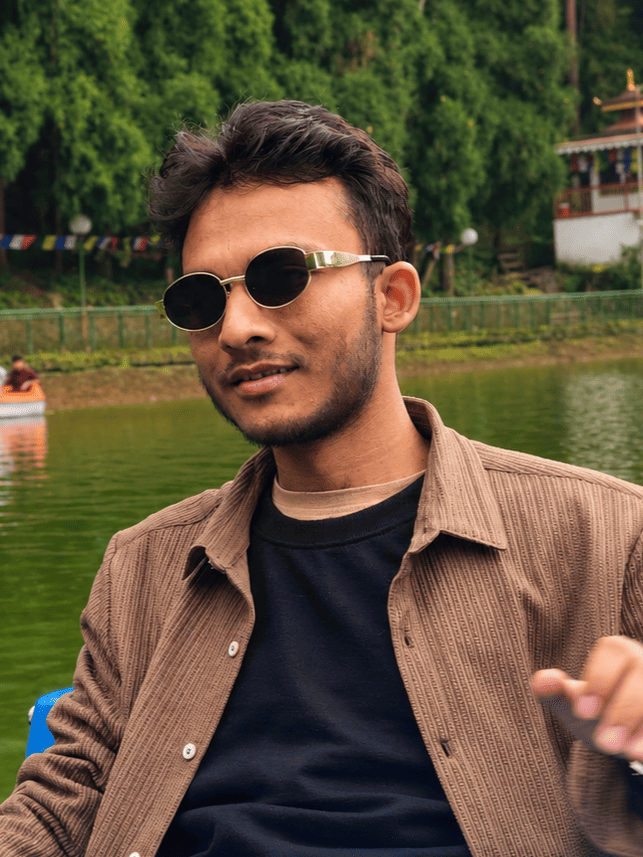
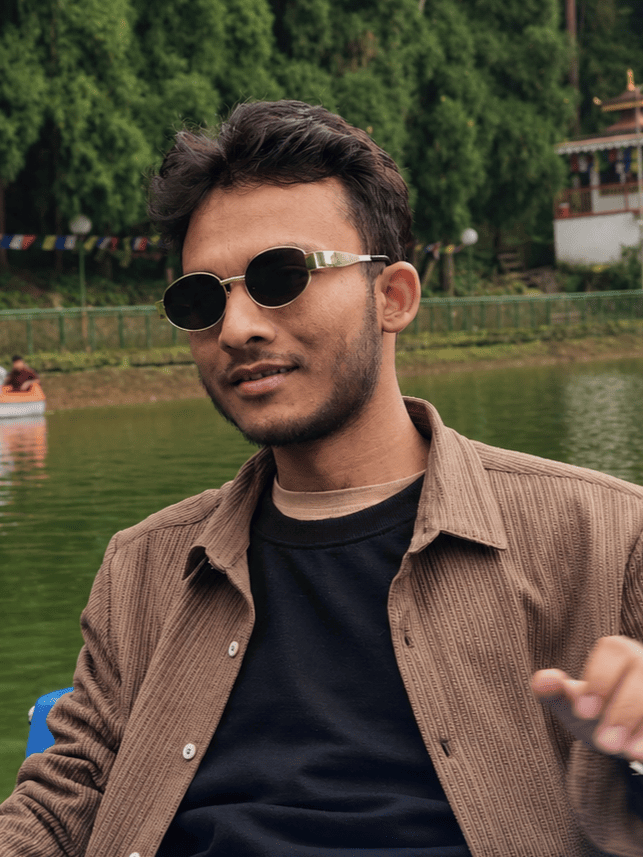
fix: nav  and playlist mini disc also change for consistency, edited some cast photo

diff --git a/src/components/layout/Navbar.jsx b/src/components/layout/Navbar.jsx
@@ -51,8 +51,23 @@ const MarqueeText = ({ text, className = '' }) => {
 
 /* ── Tiny vinyl SVG (matches home page aesthetics) ──────────────────── */
 /* Pure CSS animation-play-state — no Framer Motion rotation needed     */
-const MiniVinyl = ({ isPlaying, isResetting, size = 26 }) => {
+const LABEL_COLORS = [
+  { light: '#c8934a', dark: '#7c481f' }, // Amber
+  { light: '#c85a5a', dark: '#7a2f2f' }, // muted red
+  { light: '#5a86c8', dark: '#2f4f7a' }, // muted blue
+  { light: '#5fc27a', dark: '#357048' }, // muted green
+  { light: '#c8b15a', dark: '#7a682f' }, // muted yellow
+  { light: '#a05ac8', dark: '#62357a' }, // muted purple
+];
+
+const MiniVinyl = ({ isPlaying, isResetting, activeTrack, size = 26 }) => {
   const playState = (isPlaying && !isResetting) ? 'running' : 'paused';
+  
+  const isDefaultState = activeTrack === null || activeTrack === undefined;
+  const miniDiscColors = isDefaultState
+    ? { light: '#fdf4e3', dark: '#d5bca3' }
+    : LABEL_COLORS[activeTrack % LABEL_COLORS.length];
+
   return (
     <div
       key={isResetting ? 'mini-reset' : 'mini-play'}
@@ -77,8 +92,8 @@ const MiniVinyl = ({ isPlaying, isResetting, size = 26 }) => {
             <stop offset="100%" stopColor="#100d08" />
           </radialGradient>
           <radialGradient id="mLabelGrad" cx="35%" cy="35%" r="70%">
-            <stop offset="0%" stopColor="#c8934a" />
-            <stop offset="100%" stopColor="#7c481f" />
+            <stop offset="0%" stopColor={miniDiscColors.light} />
+            <stop offset="100%" stopColor={miniDiscColors.dark} />
           </radialGradient>
         </defs>
         <circle cx="50" cy="50" r="50" fill="url(#mDiscGrad)" />
@@ -118,7 +133,7 @@ const NavMiniPlayer = ({ showDisc = true }) => {
           }}
         >
           {/* Vinyl disc — desktop only */}
-          {showDisc && <MiniVinyl isPlaying={isPlaying} isResetting={isResetting} size={26} />}
+          {showDisc && <MiniVinyl isPlaying={isPlaying} isResetting={isResetting} activeTrack={activeTrack} size={26} />}
 
           {/* Scrolling track name */}
           <MarqueeText

diff --git a/src/components/sections/BatchSoundtrack.jsx b/src/components/sections/BatchSoundtrack.jsx
@@ -137,6 +137,11 @@ const BatchSoundtrack = () => {
   const discPlayState = (isPlaying && !isResetting) ? 'running' : 'paused';
   const headerPlayState = (isPlaying && !isResetting) ? 'running' : 'paused';
 
+  const isDefaultState = activeTrack === null || activeTrack === undefined;
+  const miniDiscColors = isDefaultState
+    ? { light: '#fdf4e3', dark: '#d5bca3' }
+    : LABEL_COLORS[activeTrack % LABEL_COLORS.length];
+
   return (
     <section className="py-0 sm:py-14 relative z-10 overflow-hidden" id="batch-soundtrack">
       {/* Ambient glow */}
@@ -280,7 +285,15 @@ const BatchSoundtrack = () => {
                   }),
                 }}
               >
-                <div className="w-2 h-2 rounded-full bg-amber-800/60" />
+                <div 
+                  className="rounded-full flex items-center justify-center opacity-20 transition-colors duration-700"
+                  style={{
+                    width: '40%', height: '40%',
+                    background: `radial-gradient(circle at 35% 35%, ${miniDiscColors.light}, ${miniDiscColors.dark})`,
+                  }}
+                >
+                  <div className="w-1 h-1 rounded-full" style={{ background: '#0d0b09' }} />
+                </div>
               </div>
               <div>
                 <p className="font-['Playfair_Display'] text-amber-200 font-semibold text-sm">The Memory Tape</p>
